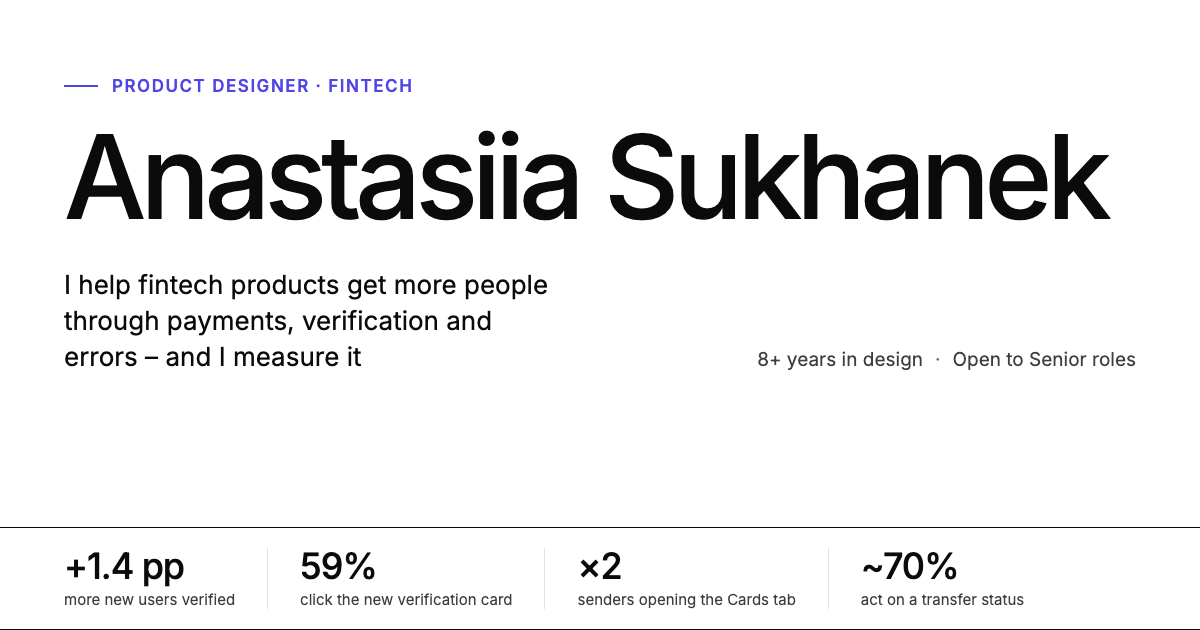
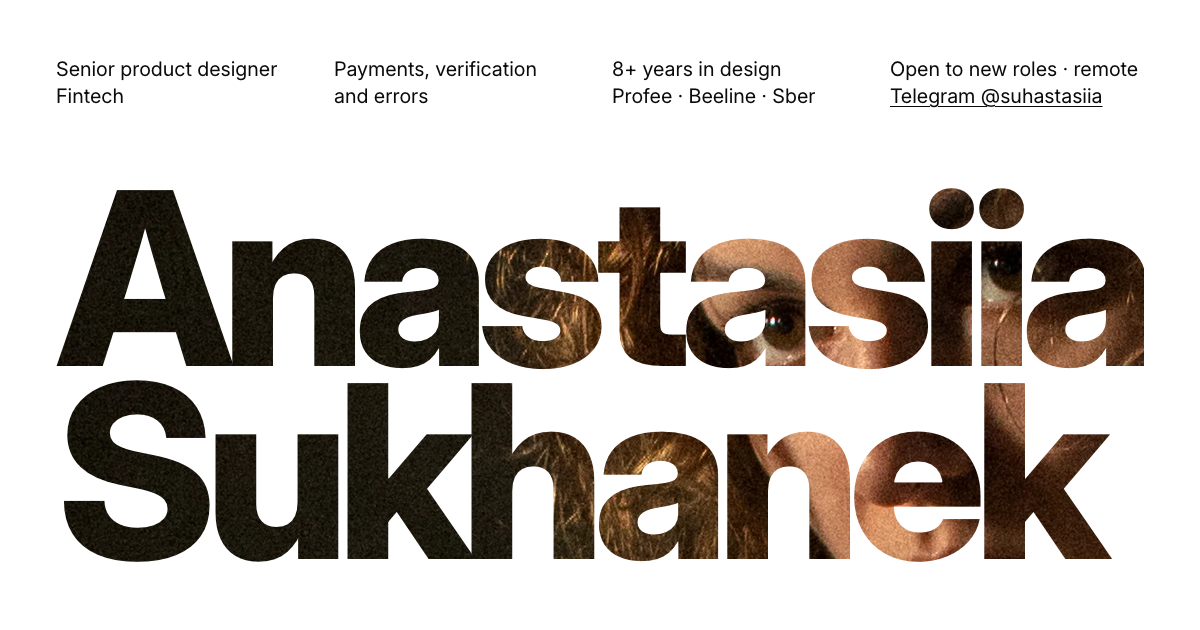
Modular grid becomes the default site (?grid=0 keeps the old layout for a tab); About gallery as a contact sheet (?index for the captioned index); share image from the new hero; Senior in page titles

diff --git a/anastasiia-cv.html b/anastasiia-cv.html
@@ -23,12 +23,14 @@
   var lang = q || saved || ((navigator.language || '').toLowerCase().indexOf('ru') === 0 ? 'ru' : 'en');
   if (lang !== 'ru') lang = 'en';
   document.documentElement.lang = lang;
-  // Same modular-grid preview as the site: ?grid on, ?grid=0 off, remembered for the tab
+  // Same modular-grid layout as the site: on by default, ?grid=0 shows the previous layout for this tab
+  var gridOff = false;
   try {
     var g = location.search.match(/[?&]grid(=0)?\b/);
-    if (g) g[1] ? sessionStorage.removeItem('grid') : sessionStorage.setItem('grid', '1');
-    if (sessionStorage.getItem('grid') === '1') document.documentElement.classList.add('g4');
+    if (g) g[1] ? sessionStorage.setItem('grid', '0') : sessionStorage.removeItem('grid');
+    gridOff = sessionStorage.getItem('grid') === '0';
   } catch (e) {}
+  if (!gridOff) document.documentElement.classList.add('g4');
   document.title = lang === 'ru' ? 'Анастасия Суханек – резюме' : 'Anastasiia Sukhanek – CV';
   document.addEventListener('click', function (e) {
     var b = e.target.closest('[data-set-lang]'); if (!b) return;

diff --git a/js/lang.js b/js/lang.js
@@ -1,13 +1,14 @@
 (function () {
   'use strict';
 
-  // Preview of the modular-grid layout: ?grid turns it on for this tab, ?grid=0 turns it off
+  // Modular-grid layout is the default; ?grid=0 shows the previous layout for this tab, ?grid brings the grid back
   (function () {
-    var q = location.search.match(/[?&]grid(=0)?\b/);
+    var q = location.search.match(/[?&]grid(=0)?\b/), off = false;
     try {
-      if (q) q[1] ? sessionStorage.removeItem('grid') : sessionStorage.setItem('grid', '1');
-      if (sessionStorage.getItem('grid') === '1') document.documentElement.classList.add('g4');
-    } catch (e) { if (q && !q[1]) document.documentElement.classList.add('g4'); }
+      if (q) q[1] ? sessionStorage.setItem('grid', '0') : sessionStorage.removeItem('grid');
+      off = sessionStorage.getItem('grid') === '0';
+    } catch (e) { off = !!(q && q[1]); }
+    if (!off) document.documentElement.classList.add('g4');
   })();
 
   function getSaved() {

diff --git a/about.html b/about.html
@@ -16,8 +16,8 @@
 <link rel="apple-touch-icon" href="apple-touch-icon.png">
 <script src="js/lang.js"></script>
 <script>
-  // Preview: ?sheet shows the photos as a contact sheet instead of the index
-  if (/[?&]sheet\b/.test(location.search)) document.documentElement.classList.add('g4-sheet');
+  // Photos as a contact sheet by default; ?index shows them as a captioned index instead
+  if (!/[?&]index\b/.test(location.search)) document.documentElement.classList.add('g4-sheet');
 </script>
 <link rel="stylesheet" href="css/tokens.css">
 <link rel="stylesheet" href="css/scroll-reveal.css">
